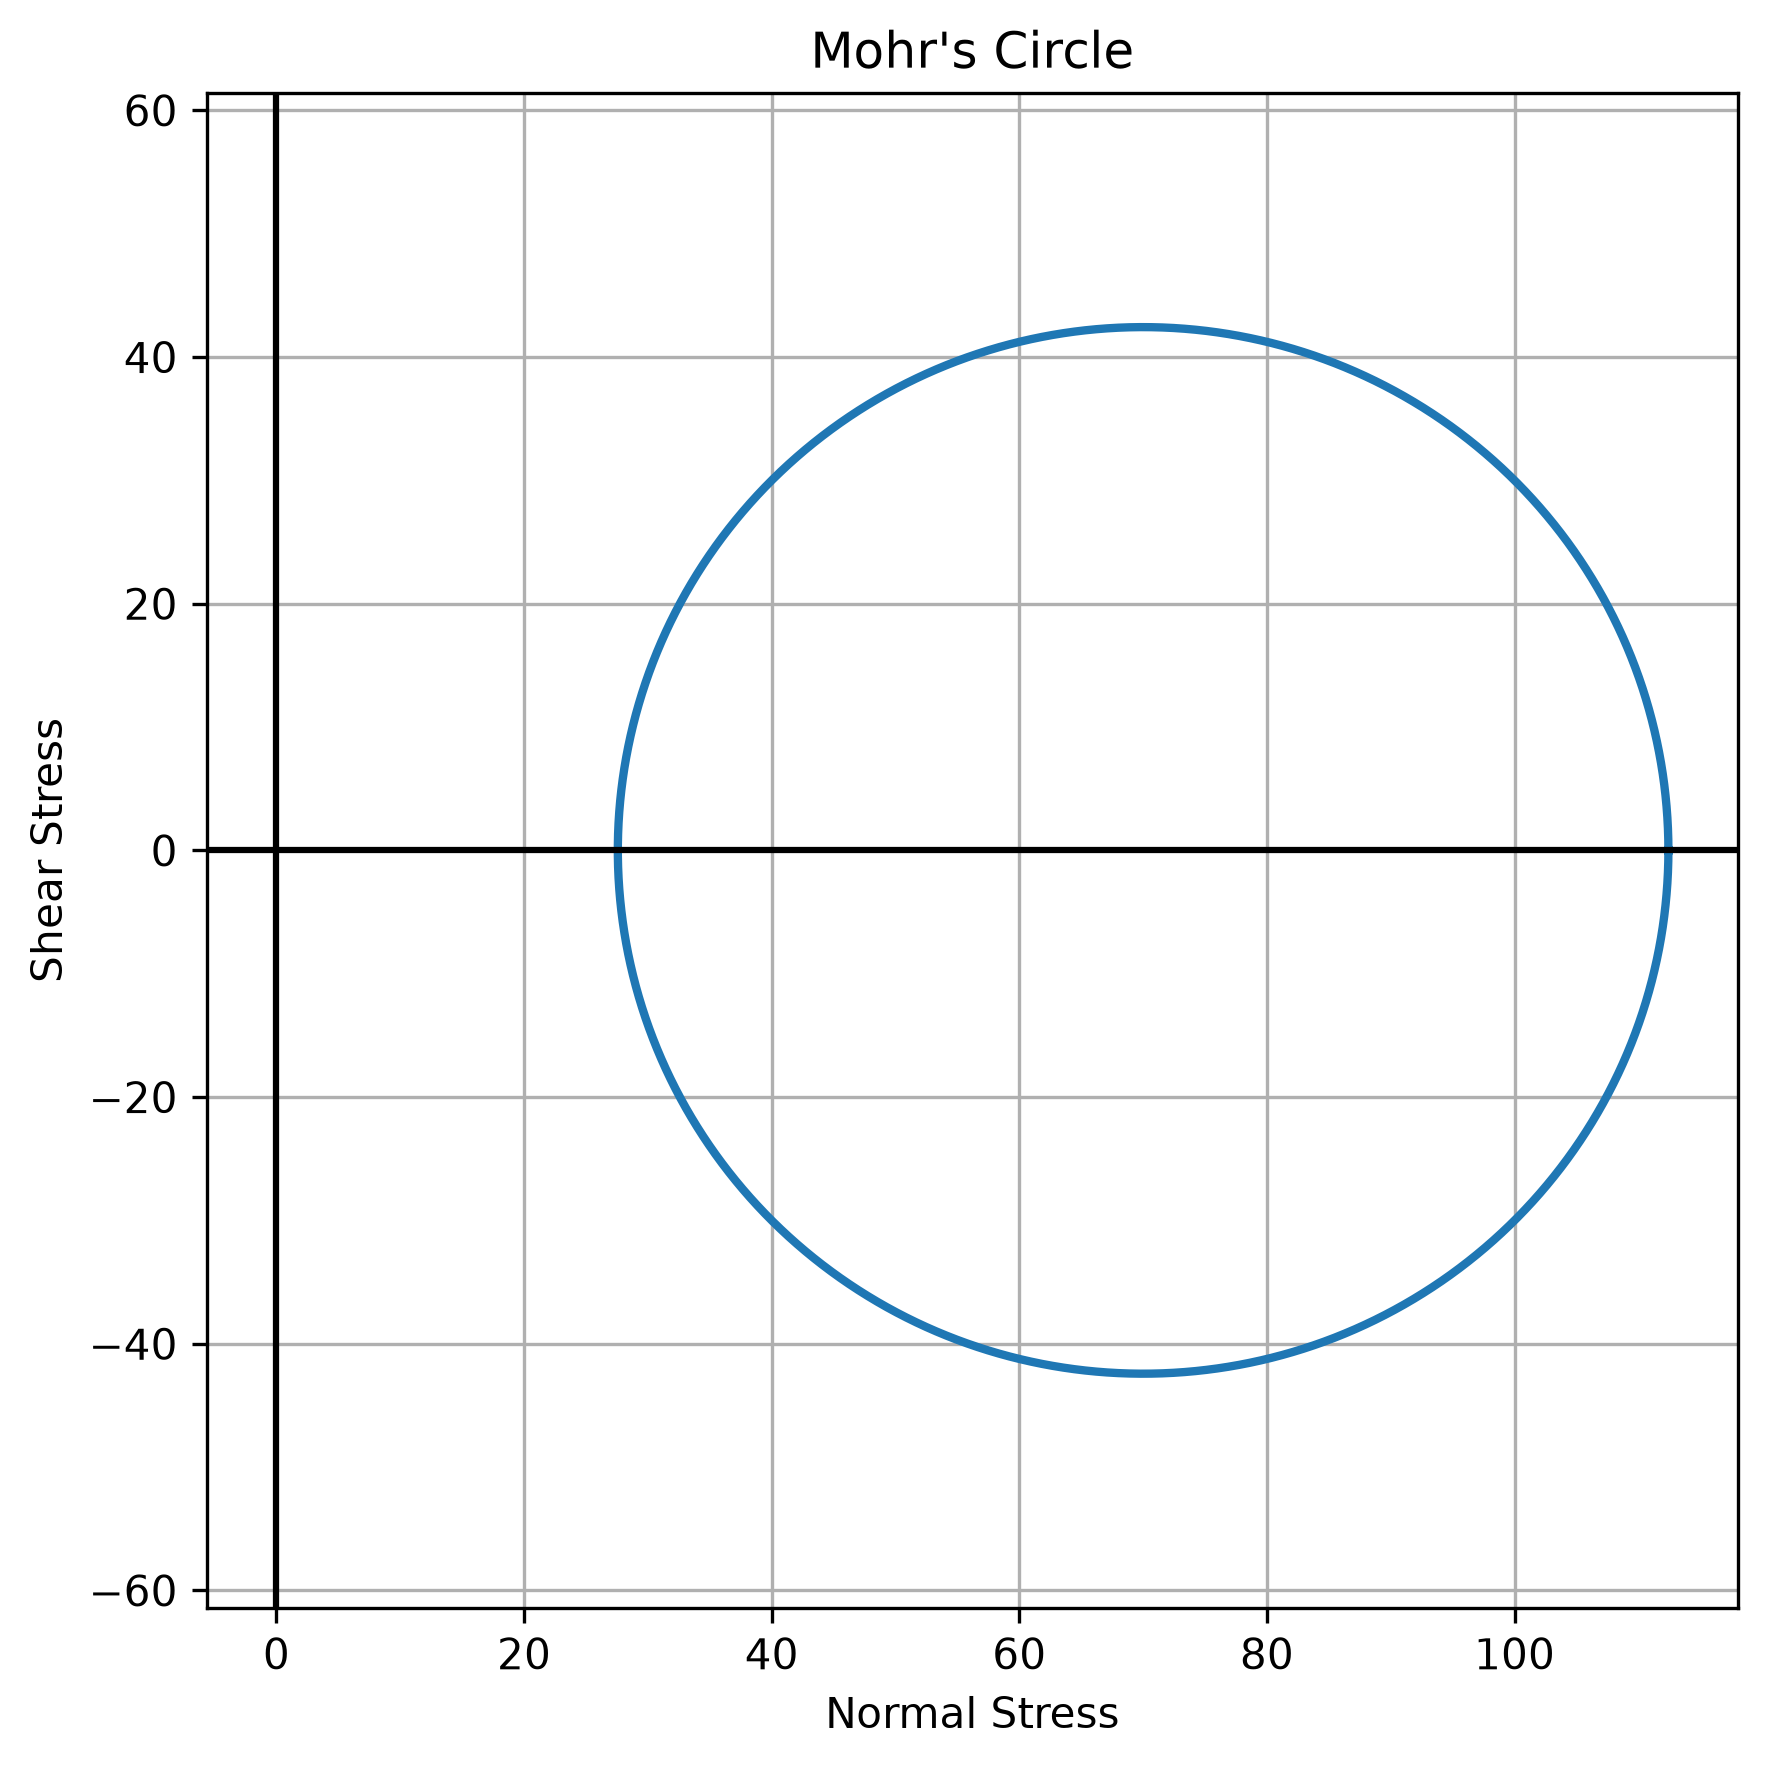
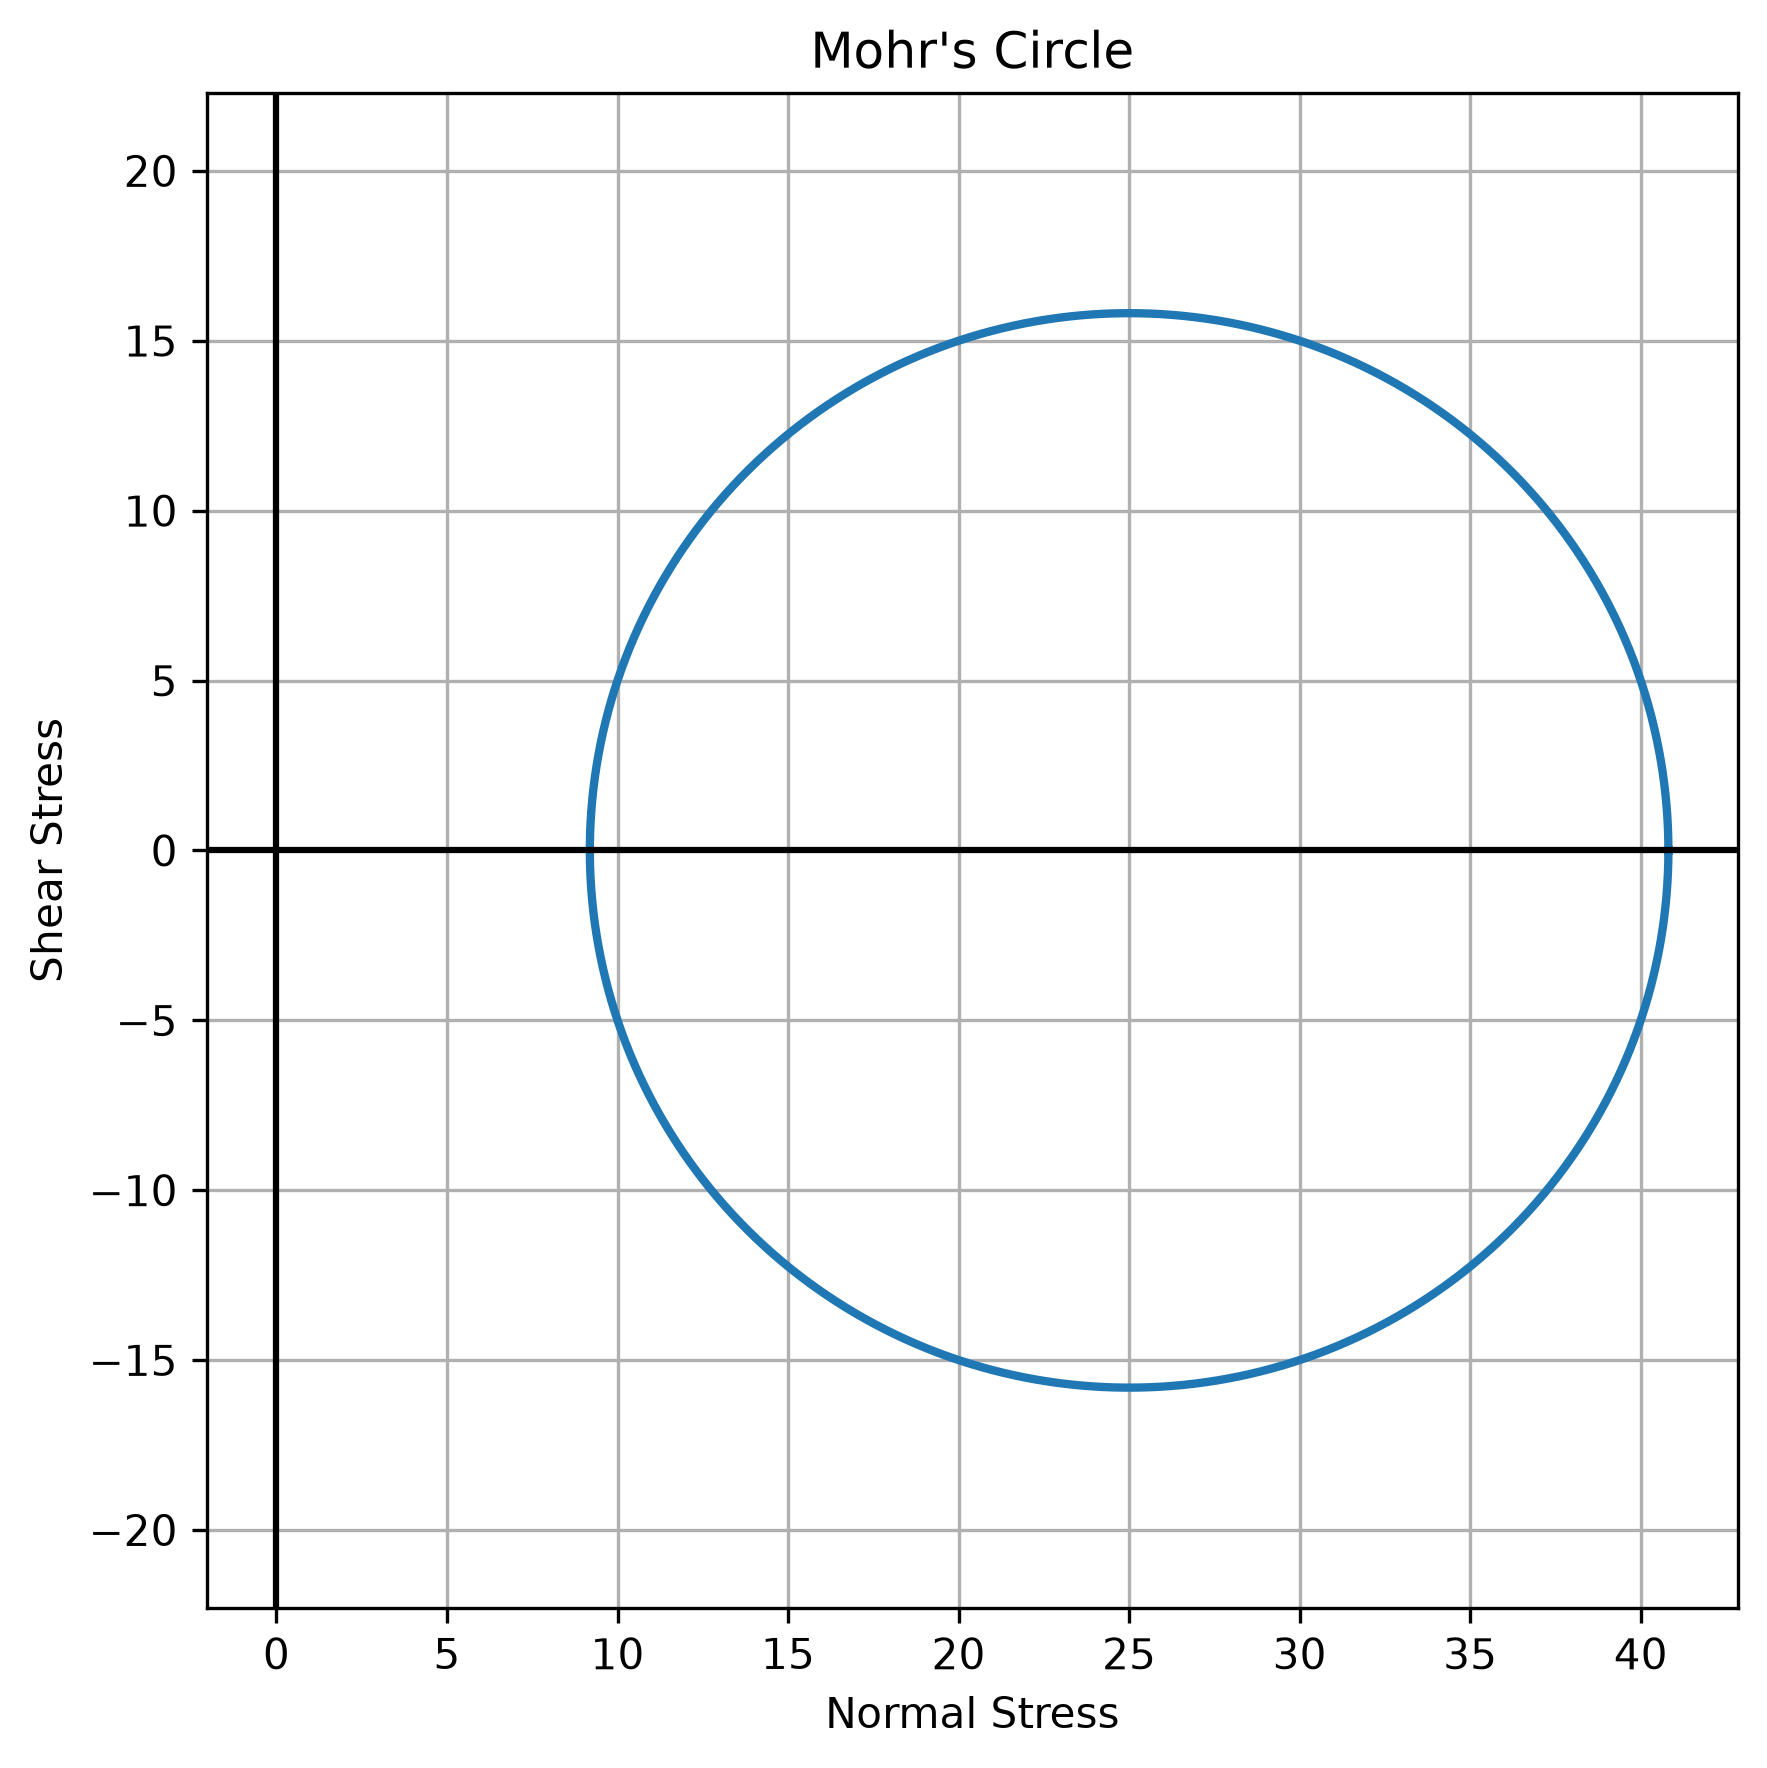
Add integrated engineering toolkit interface

diff --git a/src/main.py b/src/main.py
@@ -1,33 +1,192 @@
-import subprocess
+from src.beam_deflection import (
+    calculate_beam_deflection_curve,
+    calculate_maximum_centre_point_load_deflection,
+)
+from src.buckling_analysis import compare_end_conditions
+from src.engineering_visualisation import (
+    plot_beam_deflection,
+    plot_buckling_comparison,
+    plot_mohrs_circle,
+    plot_shaft_stress_distribution,
+)
+from src.mohrs_circle import generate_mohrs_circle_points
+from src.shaft_stress_analysis import (
+    calculate_maximum_torsional_shear_stress,
+    calculate_shaft_stress_distribution,
+)
 
-while True:
 
-    print("\n==============================")
+def run_beam_analysis():
+    beam_length = float(input("Beam length, L (m): "))
+    point_load = float(input("Centre point load, P (N): "))
+    youngs_modulus = float(input("Young's modulus, E (Pa): "))
+    second_moment_area = float(
+        input("Second moment of area, I (m^4): ")
+    )
+
+    position_values, deflection_values = (
+        calculate_beam_deflection_curve(
+            beam_length=beam_length,
+            point_load=point_load,
+            youngs_modulus=youngs_modulus,
+            second_moment_area=second_moment_area,
+            number_of_points=201,
+        )
+    )
+
+    maximum_deflection = (
+        calculate_maximum_centre_point_load_deflection(
+            beam_length=beam_length,
+            point_load=point_load,
+            youngs_modulus=youngs_modulus,
+            second_moment_area=second_moment_area,
+        )
+    )
+
+    print(
+        f"\nMaximum deflection: "
+        f"{maximum_deflection * 1000:.6f} mm"
+    )
+
+    plot_beam_deflection(
+        position_values,
+        deflection_values,
+        save_path="images/beam_deflection.png",
+    )
+
+
+def run_shaft_analysis():
+    diameter = float(input("Shaft diameter (m): "))
+    torque = float(input("Applied torque (N·m): "))
+
+    radius_values, stress_values = (
+        calculate_shaft_stress_distribution(
+            torque=torque,
+            diameter=diameter,
+            number_of_points=200,
+        )
+    )
+
+    maximum_stress = (
+        calculate_maximum_torsional_shear_stress(
+            torque=torque,
+            diameter=diameter,
+        )
+    )
+
+    print(
+        f"\nMaximum shear stress: "
+        f"{maximum_stress / 1e6:.6f} MPa"
+    )
+
+    plot_shaft_stress_distribution(
+        radius_values,
+        stress_values,
+        save_path="images/shaft_stress_distribution.png",
+    )
+
+
+def run_mohrs_circle_analysis():
+    sigma_x = float(input("Normal stress σx (MPa): "))
+    sigma_y = float(input("Normal stress σy (MPa): "))
+    tau_xy = float(input("Shear stress τxy (MPa): "))
+
+    sigma_values, tau_values, results = (
+        generate_mohrs_circle_points(
+            sigma_x=sigma_x,
+            sigma_y=sigma_y,
+            tau_xy=tau_xy,
+            number_of_points=300,
+        )
+    )
+
+    print(
+        f"\nPrincipal stress 1: "
+        f"{results['principal_stress_1']:.6f} MPa"
+    )
+    print(
+        f"Principal stress 2: "
+        f"{results['principal_stress_2']:.6f} MPa"
+    )
+    print(
+        f"Maximum shear stress: "
+        f"{results['maximum_shear_stress']:.6f} MPa"
+    )
+    print(
+        f"Principal angle: "
+        f"{results['principal_angle_degrees']:.6f}°"
+    )
+
+    plot_mohrs_circle(
+        sigma_values,
+        tau_values,
+        save_path="images/mohrs_circle.png",
+    )
+
+
+def run_buckling_analysis():
+    youngs_modulus = float(input("Young's modulus, E (Pa): "))
+    second_moment_area = float(
+        input("Second moment of area, I (m^4): ")
+    )
+    column_length = float(input("Column length, L (m): "))
+
+    results = compare_end_conditions(
+        youngs_modulus=youngs_modulus,
+        second_moment_area=second_moment_area,
+        column_length=column_length,
+    )
+
+    print("\nEuler buckling critical loads:")
+
+    for condition, load in results.items():
+        print(f"{condition}: {load / 1000:.6f} kN")
+
+    plot_buckling_comparison(
+        results,
+        save_path="images/buckling_analysis.png",
+    )
+
+
+def display_menu():
+    print("\n================================")
     print(" Engineering Analysis Toolkit")
-    print("==============================")
-
+    print("================================")
     print("1. Beam Deflection")
-    print("2. Shaft Stress Analysis")
+    print("2. Shaft Torsional Stress")
     print("3. Mohr's Circle")
-    print("4. Buckling Analysis")
+    print("4. Euler Buckling")
     print("5. Exit")
 
-    choice = input("\nSelect Module: ")
 
-    if choice == "1":
-        subprocess.run(["python", "beam_deflection.py"])
+def main():
+    analysis_functions = {
+        "1": run_beam_analysis,
+        "2": run_shaft_analysis,
+        "3": run_mohrs_circle_analysis,
+        "4": run_buckling_analysis,
+    }
 
-    elif choice == "2":
-        subprocess.run(["python", "shaft_stress_analysis.py"])
+    while True:
+        display_menu()
 
-    elif choice == "3":
-        subprocess.run(["python", "mohrs_circle.py"])
+        choice = input("\nSelect module: ").strip()
 
-    elif choice == "4":
-        subprocess.run(["python", "buckling_analysis.py"])
+        if choice == "5":
+            print("\nExiting Engineering Analysis Toolkit.")
+            break
 
-    elif choice == "5":
-        break
+        selected_function = analysis_functions.get(choice)
 
-    else:
-        print("Invalid Selection")
+        if selected_function is None:
+            print("\nInvalid selection. Enter a number from 1 to 5.")
+            continue
+
+        try:
+            selected_function()
+        except (TypeError, ValueError) as error:
+            print(f"\nInput error: {error}")
+
+
+if __name__ == "__main__":
+    main()

diff --git a/tests/test_main.py b/tests/test_main.py
@@ -1,0 +1,13 @@
+from src.main import display_menu
+
+
+def test_display_menu_runs_without_error(capsys):
+    display_menu()
+
+    captured = capsys.readouterr()
+
+    assert "Engineering Analysis Toolkit" in captured.out
+    assert "Beam Deflection" in captured.out
+    assert "Shaft Torsional Stress" in captured.out
+    assert "Mohr's Circle" in captured.out
+    assert "Euler Buckling" in captured.out

diff --git a/main.py b/main.py
@@ -1,0 +1,5 @@
+from src.main import main
+
+
+if __name__ == "__main__":
+    main()